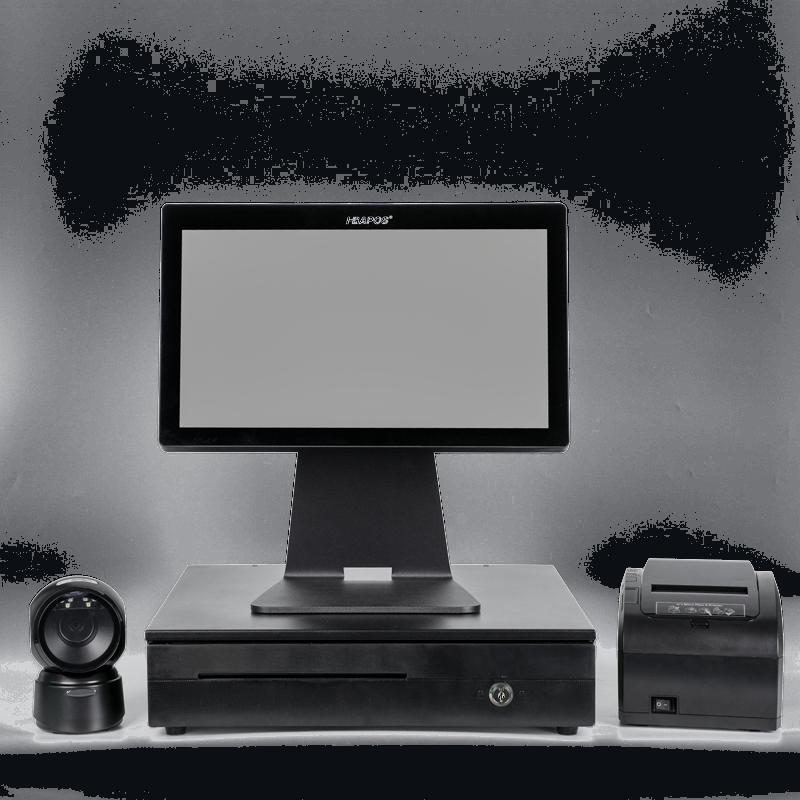
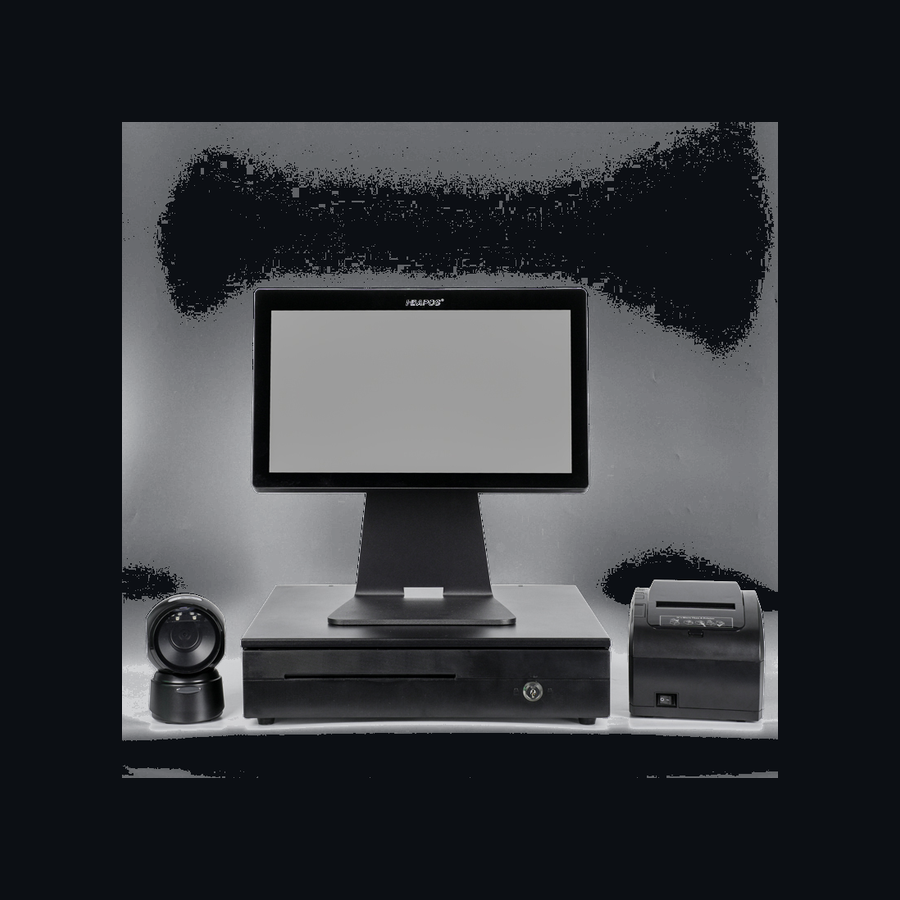
Home hub: volledige kassa zichtbaar in cirkel (contain)

diff --git a/src/components/ConnectedSystemHubSection.tsx b/src/components/ConnectedSystemHubSection.tsx
@@ -124,15 +124,17 @@ export default function ConnectedSystemHubSection() {
             {/* Grote hub-cirkel + kassa */}
             <div className="absolute left-1/2 top-[48%] z-20 flex w-[32%] -translate-x-1/2 -translate-y-1/2 flex-col items-center">
               <div className="relative aspect-square w-full rounded-full border border-white/[0.14] bg-[#0c0f14] p-[5%] shadow-[0_0_0_1px_rgba(14,93,130,0.35),0_20px_48px_rgba(0,0,0,0.5)] ring-1 ring-accent/35">
-                <div className="relative h-full w-full overflow-hidden rounded-full bg-[#0c0f14]">
-                  <Image
-                    src={HUB_CENTER_IMAGE}
-                    alt={centerAlt}
-                    fill
-                    priority
-                    className="object-cover object-[center_42%] scale-[1.05]"
-                    sizes="(min-width: 768px) 280px, 0px"
-                  />
+                <div className="relative flex h-full w-full items-center justify-center overflow-hidden rounded-full bg-[#0c0f14]">
+                  <div className="relative h-[84%] w-[84%]">
+                    <Image
+                      src={HUB_CENTER_IMAGE}
+                      alt={centerAlt}
+                      fill
+                      priority
+                      className="object-contain object-center"
+                      sizes="(min-width: 768px) 280px, 0px"
+                    />
+                  </div>
                 </div>
               </div>
               <p className="pointer-events-none absolute -bottom-8 left-1/2 w-max -translate-x-1/2 text-sm font-semibold tracking-[0.14em] text-white/80 sm:text-base">
@@ -170,15 +172,17 @@ export default function ConnectedSystemHubSection() {
         <div className="mt-12 md:hidden">
           <div className="relative mx-auto max-w-sm">
             <div className="relative mx-auto aspect-square w-full max-w-[min(100%,280px)] rounded-full border border-white/10 bg-[#0c0f14] p-3 shadow-lg ring-1 ring-accent/35">
-              <div className="relative h-full w-full overflow-hidden rounded-full bg-[#0c0f14]">
-                <Image
-                  src={HUB_CENTER_IMAGE}
-                  alt={centerAlt}
-                  fill
-                  priority
-                  className="object-cover object-[center_42%] scale-[1.05]"
-                  sizes="280px"
-                />
+              <div className="relative flex h-full w-full items-center justify-center overflow-hidden rounded-full bg-[#0c0f14]">
+                <div className="relative h-[84%] w-[84%]">
+                  <Image
+                    src={HUB_CENTER_IMAGE}
+                    alt={centerAlt}
+                    fill
+                    priority
+                    className="object-contain object-center"
+                    sizes="280px"
+                  />
+                </div>
               </div>
             </div>
             <p className="mt-4 text-center text-sm font-semibold tracking-wide text-white/80">
